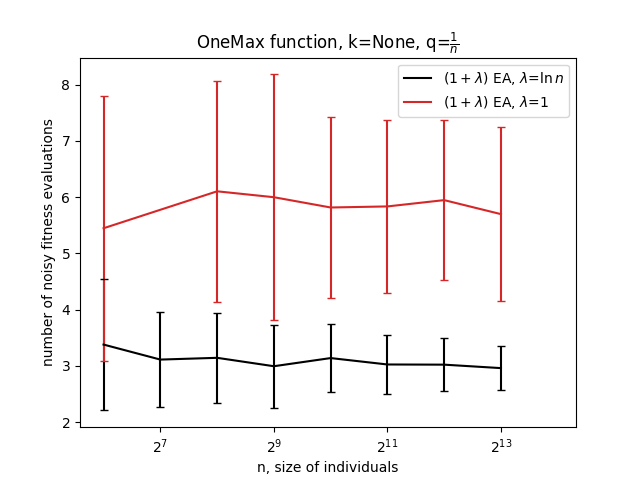
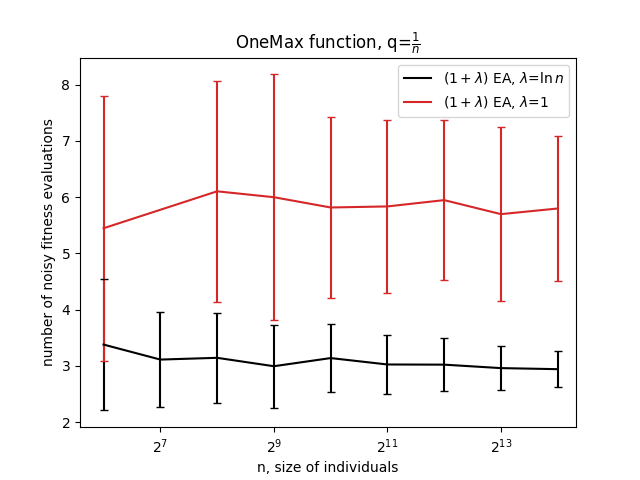
*

diff --git a/latex_plots/onemax/lea_lea: lam1=logn, lam2=1, q=1_div_n.tex b/latex_plots/onemax/lea_lea: lam1=logn, lam2=1, q=1_div_n.tex
@@ -1,6 +1,6 @@
 		\addplot plot [error bars/.cd, y dir=both, y explicit] coordinates
-		{(64,3.3801893965828134)+-(0,1.1701674349585034)(128,3.1134679305970354)+-(0,0.8498445449999684)(256,3.144708879850214)+-(0,0.7989574421169069)(512,2.9953392233706757)+-(0,0.7346716552330286)(1024,3.1402145466661953)+-(0,0.6016552795307203)(2048,3.0263038853988466)+-(0,0.5318104925577585)(4096,3.023095076876451)+-(0,0.4683722016047373)(8192,2.961714902708972)+-(0,0.39267973998460504)};
+		{(64,3.3801893965828134)+-(0,1.1701674349585034)(128,3.1134679305970354)+-(0,0.8498445449999684)(256,3.144708879850214)+-(0,0.7989574421169069)(512,2.9953392233706757)+-(0,0.7346716552330286)(1024,3.1402145466661953)+-(0,0.6016552795307203)(2048,3.0263038853988466)+-(0,0.5318104925577585)(4096,3.023095076876451)+-(0,0.4683722016047373)(8192,2.961714902708972)+-(0,0.39267973998460504)(16384,2.9429095712556133)+-(0,0.3254993061219131)};
 		\addlegendentry{\oplea, \lambda=$\ln n$};
 		\addplot plot [error bars/.cd, y dir=both, y explicit] coordinates
-		{(64,5.4479771481569506)+-(0,2.3532899829417433)(256,6.104445658217702)+-(0,1.9587518381136106)(512,5.999601365288515)+-(0,2.1830726039315214)(1024,5.816904138408026)+-(0,1.6024521947285726)(2048,5.835806466135694)+-(0,1.5422955153062154)(4096,5.947888943068891)+-(0,1.4217274382953258)(8192,5.698775462146101)+-(0,1.5487966651575449)};
+		{(64,5.4479771481569506)+-(0,2.3532899829417433)(256,6.104445658217702)+-(0,1.9587518381136106)(512,5.999601365288515)+-(0,2.1830726039315214)(1024,5.816904138408026)+-(0,1.6024521947285726)(2048,5.835806466135694)+-(0,1.5422955153062154)(4096,5.947888943068891)+-(0,1.4217274382953258)(8192,5.698775462146101)+-(0,1.5487966651575449)(16384,5.798948869768469)+-(0,1.2954758199729337)};
 		\addlegendentry{\oea$};

diff --git a/plot.py b/plot.py
@@ -22,7 +22,8 @@ def plot(algo_name, n_deg_from, n_deg_to, lam_name, q_name, q_tex, label, data_p
         if os.path.exists(file_name) and os.path.getsize(file_name) > 0:
             data = np.loadtxt(file_name)
             n = 1 << n_deg
-            coeff = n * np.log(n)
+            # coeff = n * np.log(n)
+            coeff = 1
             data = data / coeff
 
             lam = option_parse(n, lam_name, k=k)
@@ -79,7 +80,7 @@ if __name__ == '__main__':
             plt.title(f'{fitness_name} function, $\lambda$={lam_tex_1}, q={q_tex}')
             name = f'{algo_name_1}_{algo_name_2}: lam={lam_name_1}, q={q_name}'
         else:
-            plt.title(f'{fitness_name} function, k={k}, q={q_tex}')
+            plt.title(f'{fitness_name} function, q={q_tex}')
             name = f'{algo_name_1}_{algo_name_2}: lam1={lam_name_1}, lam2={lam_name_2}, q={q_name}'
      
     file_name = name + '.png'
@@ -99,7 +100,7 @@ if __name__ == '__main__':
     plt.legend()
     plt.xlabel('n, size of individuals')
     plt.ylabel('number of noisy fitness evaluations')
-    # plt.yscale('log')
+    plt.yscale('log')
     plt.xlim((2 ** n_deg_from - (2 ** n_deg_from) / 4, 2 ** n_deg_to + (2 ** n_deg_to) / 4))
     plt.xscale('log', base=2)
 

diff --git a/algorithms.py b/algorithms.py
@@ -139,20 +139,26 @@ def not_find_optimum(x, n, f):
         return x.sum() != n
 
 
-def algorithm(n, lam, q, algo_fun, f, k, p, c, fitness_evaluations, filename):
+def algorithm(n, lam, q, algo_fun, f, k, p, c, fitness_evaluations, filename, reevaluate=False):
     n_iters = 0
     if is_quick(f):
         x = np.random.binomial(n, 1 / 2)
         assert 0 <= x <= n
     else:
         x = np.random.randint(0, 2, n)
+    fx_noisy = f(x, n, q, k)
 
     n_iters_max = stop_criterion(n, filename)
     while not_find_optimum(x, n, f):
         y, fy_noisy, fitness_evaluations_actual = algo_fun(n, lam, q, f, k, p, c, x)
 
-        if f(x, n, q, k) <= fy_noisy:
-            x = y
+        if reevaluate:
+            if f(x, n, q, k) <= fy_noisy:
+                x = y
+        else:
+            if fx_noisy <= fy_noisy:
+                x = y
+                fx_noisy = fy_noisy
         fitness_evaluations_actual += 1
 
         n_iters += 1

diff --git a/latex_plots/onemax/lea_lea: lam1=logn, lam2=1, q=0.01.tex b/latex_plots/onemax/lea_lea: lam1=logn, lam2=1, q=0.01.tex
@@ -1,0 +1,6 @@
+		\addplot plot [error bars/.cd, y dir=both, y explicit] coordinates
+		{(64,899.7)+-(0,307.7659987717941)(128,1942.55)+-(0,518.6108825506847)(256,4547.82)+-(0,1107.2988068267753)(512,10058.37)+-(0,2635.857430344062)(1024,23189.88)+-(0,5189.517662133929)(2048,49229.6)+-(0,7919.0516199858175)(4096,110458.89)+-(0,18883.338082497492)(8192,238192.6)+-(0,40279.053777863264)(16384,523874.4)+-(0,89494.29084941676)};
+		\addlegendentry{\oplea, \lambda=$\ln n$};
+		\addplot plot [error bars/.cd, y dir=both, y explicit] coordinates
+		{(64,1317.78)+-(0,492.5481414034571)(128,3824.26)+-(0,1613.756974392365)(256,13880.26)+-(0,8544.63691752903)(512,120475.28)+-(0,105302.13611528304)};
+		\addlegendentry{\oea$};
